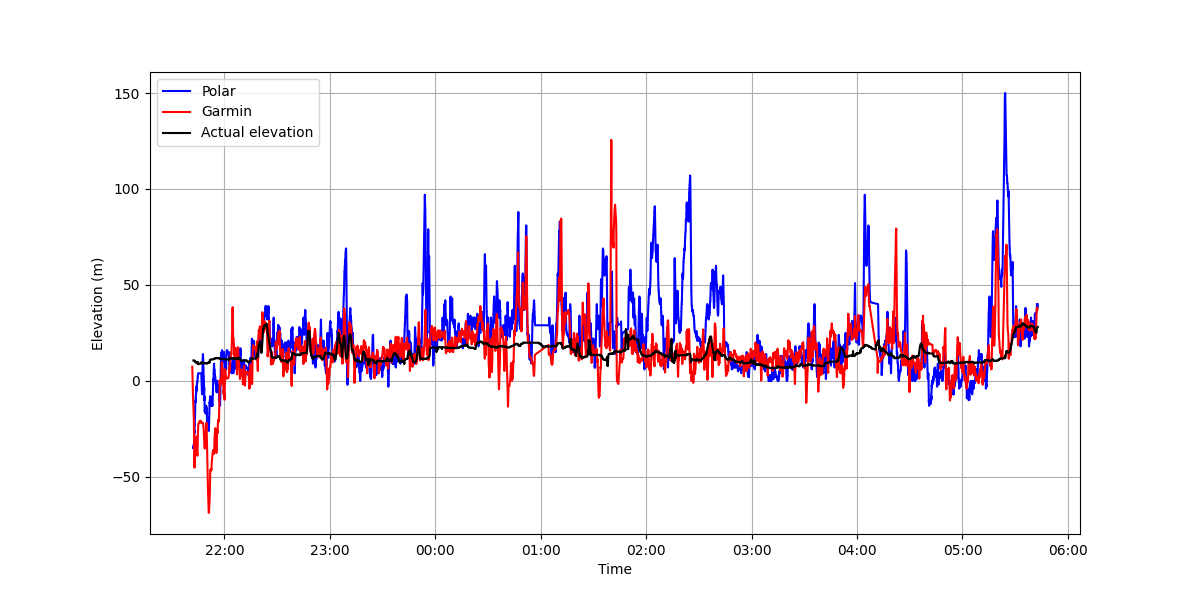
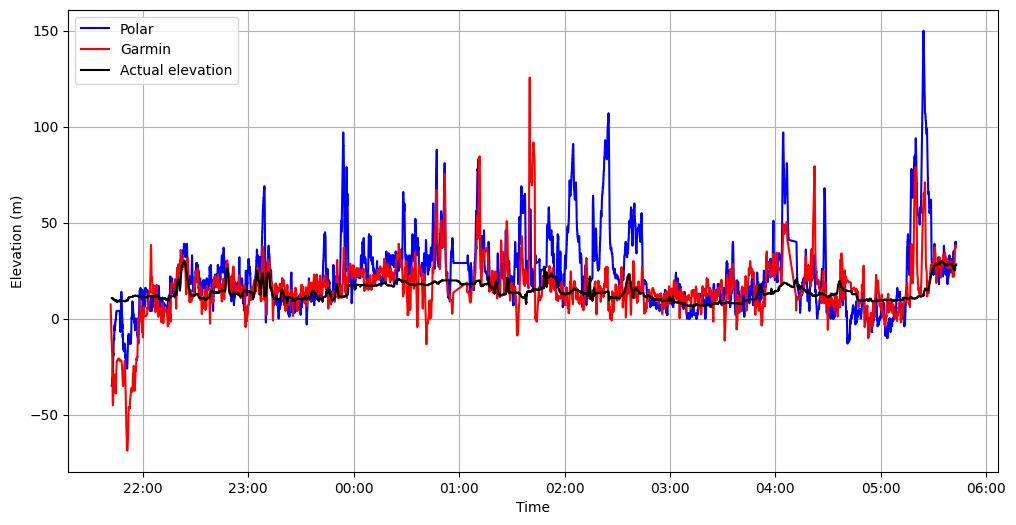
Make plots tigther

diff --git a/scripts/plots.py b/scripts/plots.py
@@ -66,7 +66,7 @@ def main(args):
   plt.xticks([], [])
   plt.yticks([], [])
   plt.tick_params(axis='both', which='both', bottom=False, top=False, left=False, right=False)
-  plt.savefig(output_dir + '/' + 'location.png')
+  plt.savefig(output_dir + '/' + 'location.png', bbox_inches='tight', pad_inches=0)
 
   plt.figure(figsize=(12, 6))
   plt.plot(polar_df['time'], polar_df['elevation'], color='blue', label='Polar')
@@ -77,7 +77,7 @@ def main(args):
   plt.legend()
   plt.grid(True)
   plt.gca().xaxis.set_major_formatter(mdates.DateFormatter('%H:%M'))
-  plt.savefig(output_dir + '/' + 'elevation.png')
+  plt.savefig(output_dir + '/' + 'elevation.png', bbox_inches='tight')
 
 if __name__ == "__main__":
     main(sys.argv[1:])
